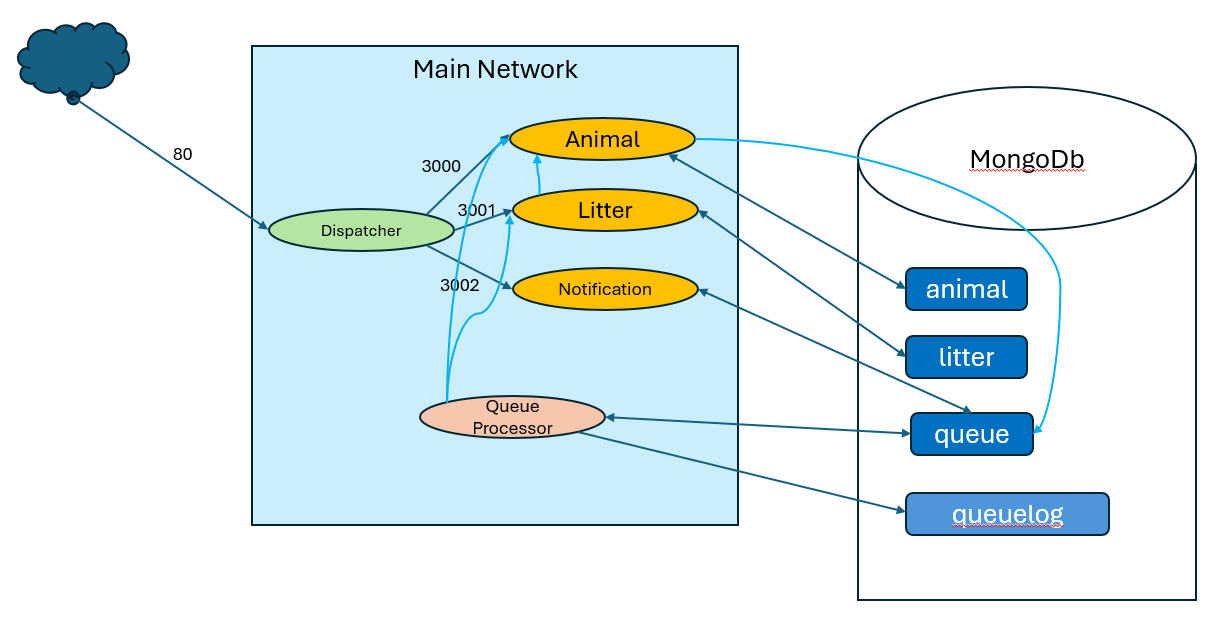
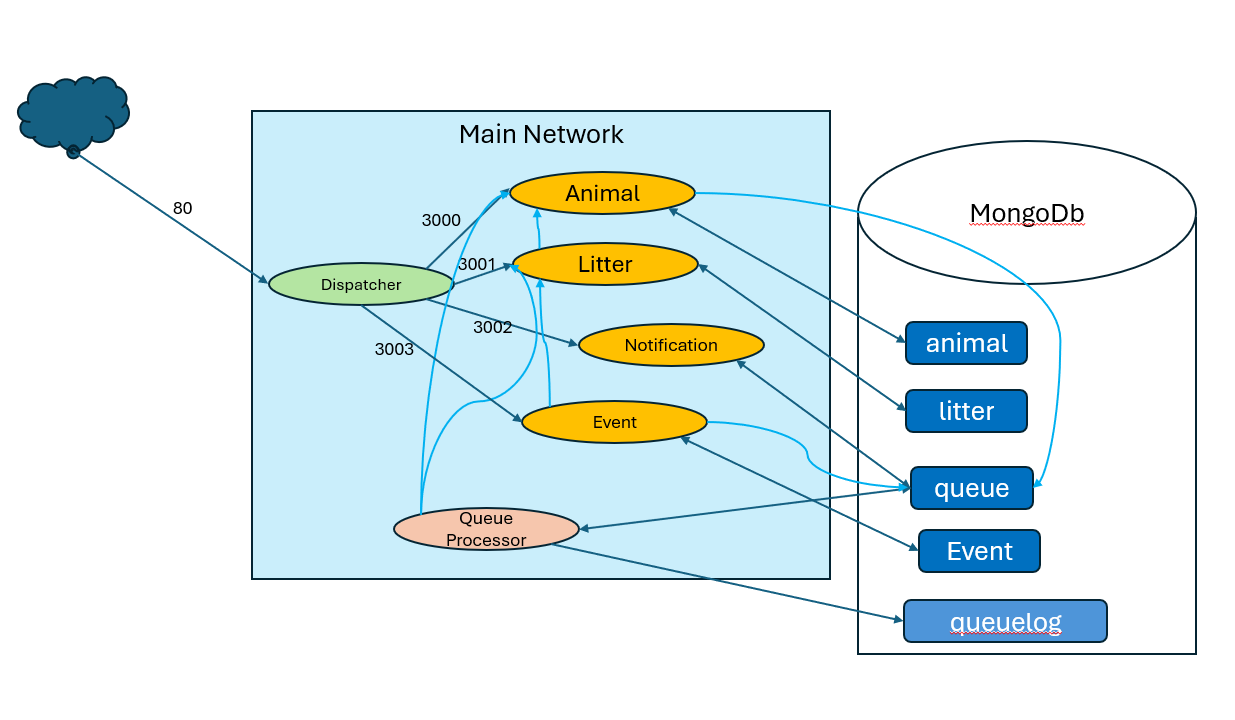
readme

diff --git a/README.md b/README.md
@@ -1,4 +1,5 @@
 * 5 dockers
+  * event api (api to access events)
   * animal api (api to access animals)
   * litter api (api to access litters)
   * notification api (api to add new queue)
@@ -10,13 +11,19 @@ MVC not implemented in APIs
 `commands.txt` shows all commands
 
 
-api calls: 
+cross service calls: 
+* event.addontestEvent()
+  * call animal.Getanimalbyid to validate animal exists
+  * save event to event collection
+  * (async) call animal.addEvent() 
 * animal.AddAnimal()
+  * save animal to animal collection
   * (async) call litter.AddPigletToLitter
 * litter.getLitterMatesbyLitterId()
-  * call animal.Getanimalbylitterid
+  * call animal.Getanimalbylitterid to get list of animals
 * litter.addPigletToLitter()
-  * call animal.Getanimalbyid
+  * call animal.Getanimalbyid to validate animal exists
+  
 
 
 ![Components](components.png)
